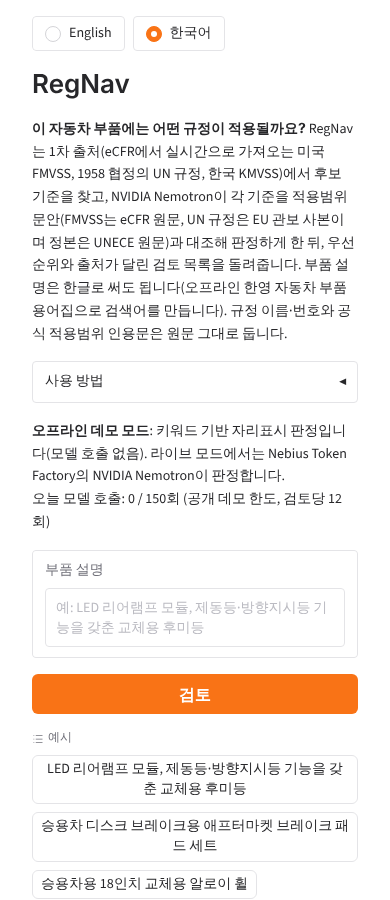
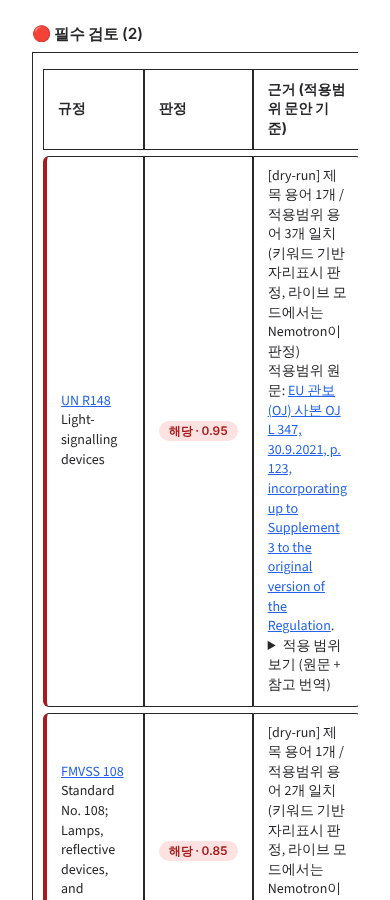
Refresh README demo screenshots to show the current card-style design
The two screenshots added 2026-10-07 predate the three CSS-only design
slices since (10-11 colour badges, 10-13 left accent border, 10-14 row
spacing/rounded corners), so judges reading the README saw a plain,
pre-polish table instead of the actual demo. Re-took both offline with
Playwright against a local space_app.py: the desktop shot now shows the
colour-coded badge/card rows, and the mobile shot was changed from an
empty input form to an actual reviewed Must-review table in Korean at
390px, which also re-confirms the 10-06 phone-width table fix still
holds. Docs/images only; test_dryrun.py and accuracy_table.py output
confirmed byte-identical, make_space.py build+boot unaffected.

Claude-Session: https://claude.ai/code/session_01AfyaZpozAhZgeqqLYdyBFj

Changed region(s): [[0.0615, 0.0, 0.9231, 1.0], [0.3385, 0.5911, 0.4, 0.6222]]

diff --git a/docs/ROADMAP.md b/docs/ROADMAP.md
@@ -55,7 +55,7 @@ and the backlog when work lands. Dates are KST.
 | 10-10 | Claude | FMVSS / UN R / KMVSS comparison table | done 09-26 |
 | 10-13 | Claude | README and `docs/submission/DEVPOST*.md` final text with measured numbers | partial: done 10-10 (DEVPOST.md/DEVPOST_STORY.md accuracy numbers + known demo/repo URLs filled, README already had this from backlog item 5); only `[[YouTube URL]]` left, blocked on the owner's 10-20/10-21 recording |
 | 10-15 | Claude | Demo rehearsal: all 5 examples, no UI errors, fix bugs | done 10-12 (headless-browser pass over all 5 examples x EN/KO x desktop/mobile = 20 runs, no console or page errors, screenshots reviewed by eye; no bugs found, no code change needed) |
-| 10-17 | Claude | `docs/submission/FEEDBACK.md` (feedback prize) and Devpost answer text (Nemotron rating 9) | open |
+| 10-17 | Claude | `docs/submission/FEEDBACK.md` (feedback prize) and Devpost answer text (Nemotron rating 9) | partial: FEEDBACK.md and the DEVPOST.md placeholder done 10-08/10-09 (backlog item 6); only the owner's own "Nemotron rating" number is left, open |
 | 10-18 | owner | Read the video script, mark lines to say in own words | open |
 | 10-20 | owner | Record the 3-minute video | open |
 | 10-21 | owner | Upload to YouTube, send the link | open |
@@ -86,6 +86,7 @@ and the backlog when work lands. Dates are KST.
    **Fifth slice done 10-14** (cloud routine): the left accent bar from the 10-13 slice still sat inside an ordinary collapsed table (every row touching its neighbour), so rows read as a coloured table, not yet as separated cards. `TABLE_CSS` now sets `.prose table { border-collapse: separate; border-spacing: 0 6px; }` and adds `border-radius` to each verdict row's first/last cell (rounding the accent-bar corner and the opposite end), which needs `border-collapse: separate` to take effect at all — with the default `collapse`, neighbouring rows' borders merge and corners cannot round. Pure CSS/launch-arg again, same pattern as the two slices before it: `render()` untouched, `scripts/fixtures/english_outputs_baseline.json` needed no regeneration, `check_english_unchanged` still passes. Verified with a headless Chromium at 1280px light, 1280px dark (`?__theme=dark`) and 390px: `getComputedStyle` on a Must-review row's first cell confirmed `border-collapse: separate`, `border-spacing: 0px 6px`, `border-radius: 6px 0px 0px 6px` actually took effect (not just present in the CSS source), screenshots at all three show visibly separated, rounded rows with no console/page errors, and `document.documentElement.scrollWidth === clientWidth` (390) still holds — the comparison and clause-comparison tables (which don't carry the `.rn-*` badge, so get no accent bar) also pick up the same row-spacing, which reads fine, not cramped. Offline: new assertions in `check_mobile_table_css` for `border-collapse: separate`, `border-spacing:`, and `border-radius:` on both `td:first-child` and `td:last-child` of each `.rn-*` row. `scripts/accuracy_table.py` output byte-identical (diffed, not just compared by number). Remaining from this backlog item: a true independent block card (not a `<table>` row at all, e.g. a bordered `<div>` per verdict) is still the larger, riskier rewrite that needs the shape-asserting tests redone — left for a future run; each CSS-only slice so far has been safe to do without that rewrite, so there may be room for one or two more before that becomes necessary.
 5. **README** for judges: problem, 30-second demo GIF or screenshots, architecture, how Nemotron and Token Factory are used, measured accuracy, limitations.
    **First slice done 10-07** (cloud routine): the README had architecture and the Nemotron/Token Factory usage already, but no screenshot and no accuracy or limitations numbers — the three pieces most useful to a judge skimming the repo. Added two screenshots (`docs/screenshots/demo_result.png` desktop English verdict table, `docs/screenshots/demo_mobile_ko.png` phone-width Korean UI), taken offline with Playwright against `space_app.py` booted locally (`REGNAV_ECFR_OFFLINE=1`, no Nebius/Tavily keys, Chromium already preinstalled in this sandbox at `/opt/pw-browsers` so no download or network call); a "Measured accuracy" section quoting `scripts/accuracy_table.py`'s current numbers (candidate recall 25/25, must-review recall 16/25 EN / 15/25 KO) with the caveat that this is the offline dry-run floor, not a measured live-Nemotron run; and a "Limitations" section (dry-run vs. live-Nemotron accuracy, OJ-vs-UNECE text lag, unofficial Korean translations, unverified/incomplete KMVSS articles, HF Space sleep, catalogue coverage is not a completeness guarantee). Pure docs + two new PNGs, no code change, so no new offline test was needed; `scripts/test_dryrun.py` and `scripts/accuracy_table.py` output are unchanged (confirmed byte-identical to the baseline this run measured first). Remaining from this backlog item: a 30-second GIF (the two static screenshots cover "what it looks like"; a GIF needs either a short local recording session or is better left to the owner's 10-20 video recording step) and folding the measured-accuracy numbers into `docs/submission/DEVPOST.md`'s `[[Accuracy on the sample set]]` placeholder, which is explicitly the 10-13 schedule item, not today's.
+   **Screenshots refreshed 10-15** (cloud routine): the two screenshots from the 10-07 slice were taken before the three design slices of backlog item 4 (10-11 colour badges, 10-13 left accent border, 10-14 row spacing/rounded corners) — so the README was showing judges a plain, pre-polish table (confirmed by diffing pixels of the committed PNG against a fresh render: no badge, no accent border, no row spacing). Regenerated both with the same offline Playwright setup against the current code: `demo_result.png` (desktop, English, LED rear lamp example) now shows the colour-coded badges and card-style rows; `demo_mobile_ko.png` was changed from "the empty input form in Korean" to "a reviewed part's 필수 검토 (Must review) table in Korean at 390px", which is strictly more informative (it doubles as visual proof the phone-width table fix from 10-06 still holds after three more CSS slices) and was the actual gap, not merely an update — the old mobile screenshot never showed a verdict table at all. README caption line updated to match. Pure PNG + one caption-line change, no code touched: `scripts/test_dryrun.py` all-pass and `scripts/accuracy_table.py` output confirmed byte-identical before/after (diffed, not just compared by number), `make_space.py --out` build+boot unchanged (`docs/screenshots/` is not part of the Space build, so this needs no HF re-upload beyond what is already pending). Remaining from this backlog item: the 30-second GIF, still better left for the owner's 10-20 recording pass.
 6. **FEEDBACK.md** from real friction met while building: exact Nemotron model id hard to find; reasoning tokens count against `max_tokens` (a 300 cap returned empty JSON for 5 of 11 calls); the hackathon promo code fails in the Top up dialog and needs a separate form; no spending cap in Token Factory billing; HF Docker Spaces are paid and ZeroGPU requires a registered `@spaces.GPU` function.
    **First slice done 10-08** (cloud routine, ahead of the 10-17 schedule row): `docs/submission/FEEDBACK.md` written, 9 numbered points plus a short form for the Devpost field, each citing the file/line where the workaround already lives in the repo rather than restating the backlog bullet from memory — model-id discoverability (`scripts/list_models.py`), reasoning tokens vs. `max_tokens` with the before/after numbers (300 -> 5/11 empty, 1000 -> fixed; `regnav/judge.py:52-55`), no Token Factory spending cap so RegNav built its own (`regnav/budget.py`, incl. the lower public-demo ceiling), the promo-code/Top-up friction, a Nemotron quality note from the first live run (correct citations, overrode a keyword-ranking mistake, confidence not yet measured on hard cases), JSON-mode sometimes not honoured (`judge.py:_ask()`'s fallback), the Tavily unece.org PDF finding-vs-reading gap with the exact live-check evidence already in `regnav/sources/tavily_search.py` (search finds the right PDF, `raw_content` empty, Tavily Extract fails, fixed by reading the EU Official Journal instead), the un-cached-failure point that `_un_lookup()`'s negative cache fixed, and the ZeroGPU/Docker-Spaces-are-paid note (not a sponsor product, but every participant hosting on free HF Spaces hits it). Pure new doc, no code touched, so no new offline test was needed; `scripts/test_dryrun.py` and `scripts/accuracy_table.py` output confirmed unchanged before and after. Not done this slice: folding the short form into `docs/submission/DEVPOST.md`'s own `## Feedback for Nebius / NVIDIA` placeholder and the "Devpost answer text (Nemotron rating 9)" piece of the 10-17 row — both stay for that scheduled date since the rating number is the owner's own judgement, not something to fabricate.
    **Second slice done 10-09** (cloud routine): re-examined that deferral — the short form needs no "Nemotron rating" number, so there was no real reason tied to it to wait for 10-17. Copied the already-written short form verbatim from `docs/submission/FEEDBACK.md` into `docs/submission/DEVPOST.md`'s `## Feedback for Nebius / NVIDIA` placeholder, with one added line pointing to `FEEDBACK.md` for the full write-up. The "Devpost answer text (Nemotron rating 9)" piece of the 10-17 row is untouched (still the owner's subjective number). Pure doc edit, no code touched; `scripts/test_dryrun.py` and `scripts/accuracy_table.py` output confirmed unchanged, `scripts/make_space.py --out` still builds and boots (docs/submission/ is not part of the Space build). Remaining from backlog item 6: nothing - FEEDBACK.md and the DEVPOST.md placeholder are both filled; only the owner's rating number for the 10-17 row is left.

diff --git a/docs/devlog/2026-10-15.md b/docs/devlog/2026-10-15.md
@@ -1,0 +1,74 @@
+# 2026-10-15
+
+## 어제 상태 분석
+
+`docs/ROADMAP.md`, `docs/devlog/2026-10-14.md`(최신 커밋 `d32f40d`), `git log --oneline -15`,
+README.md, `regnav/pipeline.py`, `regnav/judge.py`, `space_app.py`, `scripts/test_dryrun.py`,
+`scripts/accuracy_table.py`를 읽었다. `git fetch origin '+refs/heads/*:refs/remotes/origin/*'`
+결과 `origin/main`뿐이고 합칠 `claude/` 브랜치는 없었다. 가상환경(`gradio==6.28.0`,
+`playwright` 설치, Chromium은 사전 설치됨)에서 기준선 재측정: `scripts/test_dryrun.py` 전체
+통과, `scripts/accuracy_table.py` candidate recall 25/25(100%), must-review recall
+16/25(64%, 영어) / 15/25(60%, 한글) — 전날과 동일, 변경 없음.
+
+## 오늘 한 개선과 이유
+
+일정표의 Claude 소관 항목 중 오늘(10-15) 기준 기한 초과이거나 3일 이내인 것은 10-17
+FEEDBACK.md/Devpost 답변 행뿐이었는데, 백로그 6번을 보니 FEEDBACK.md와 DEVPOST.md 자리표시는
+이미 10-08/10-09에 끝났고 남은 건 "Nemotron rating" 숫자(오너 전용 주관적 판단)뿐이라 오늘
+할 일이 없었다 — 일정표 상태 칸을 "partial"로 고쳐 다음 실행이 다시 확인하지 않도록 했다.
+그래서 백로그 순위대로 점검: 1~3번은 하드룰(held-out에 맞춘 임계값 조정 금지, 실키 필요)에
+막혀 더 할 일이 없었고, 4번(Gradio 디자인)은 10-11/10-13/10-14 세 번의 CSS 전용 슬라이스를
+거쳤으므로 README의 데모 스크린샷(`docs/screenshots/demo_result.png`,
+`demo_mobile_ko.png`, 둘 다 10-07에 찍음)이 그 개선들을 실제로 반영하는지 직접 비교해봤다.
+10-07 스크린샷을 픽셀로 열어보니 배지 색상도, 왼쪽 색 테두리도, 행 간격도 전혀 없는
+밋밋한 표였다 — 즉 심사위원이 README에서 처음 보는 이미지가 지난 세 번의 디자인 개선을
+전혀 보여주지 못하는 "오래된 스크린샷" 문제였다(심사 기준 2 "디자인"에 직접 영향). 5번
+백로그(README)의 실제로 남은 구체적 구멍이라 판단해 이것을 오늘의 개선으로 골랐다.
+
+## 구현
+
+사전 설치된 Chromium(Playwright, 네트워크 호출 없음)으로 `space_app.py`를 로컬 부팅해
+LED 리어램프 예시를 데스크탑(1280px, 영어)과 모바일(390px, 한국어)에서 다시 촬영했다.
+데스크탑은 실제로 검토를 실행해 배지·좌측 테두리·행 간격이 보이는 "Must review" 표를
+담았다. 모바일은 기존 스크린샷이 "빈 입력 폼"만 보여줬던 것을 "필수 검토 표가 실제로
+렌더링된 화면"으로 바꿨다 — 10-06에 고친 '모바일 표 단어 쪼개짐' 버그가 그 이후 세 번의
+CSS 변경을 거치고도 여전히 안 깨졌는지 보여주는 증거도 겸하므로, 단순 갱신이 아니라 실제
+정보량이 늘어난 교체다. README의 모바일 스크린샷 캡션 한 줄도 "빈 폼"이 아니라 "검토 결과"를
+보여준다고 고쳤다. `space_app.py`나 `regnav/`는 한 글자도 건드리지 않은 순수 PNG + 캡션
+교체다.
+
+## 테스트 결과(숫자)
+
+- `scripts/test_dryrun.py`: 전체 통과(코드 변경 없음, 당연한 결과).
+- `scripts/accuracy_table.py`: candidate recall 25/25(100%), must-review recall
+  16/25(64%, 영어) / 15/25(60%, 한글) — 변경 전/후 출력을 `diff`로 바이트까지 비교해 무변경
+  확인.
+- `scripts/make_space.py --out /tmp/space_upload`: "45 files, contract ok, boot ok, 영어
+  43줄/한글 45줄, 둘 다 UN R90 포함" 통과 (`docs/screenshots/`는 Space 빌드에 포함되지 않음).
+
+## 커밋
+
+변경 파일: `docs/screenshots/demo_result.png`, `docs/screenshots/demo_mobile_ko.png`
+(재촬영), `README.md`(모바일 스크린샷 캡션 한 줄), `docs/ROADMAP.md`(백로그 5번에 10-15
+슬라이스 기록, 10-17 일정 상태를 partial로 정정), 본 devlog. 스크린샷 촬영 스크립트는
+스크래치패드에만 두고 저장소에는 커밋하지 않음.
+
+## 다음 단계
+
+1. 백로그 5번(README)은 이제 30초 GIF만 남음 — 오너의 10-20 녹화와 겹칠 수 있어 우선순위 낮음.
+2. 백로그 4번(디자인)은 CSS 전용 슬라이스를 3회 더 진행했으니, 다음엔 "진짜 독립 블록 카드"
+   리라이트(표 구조 검증 테스트 재작성 필요)가 남은 유일한 조각인지 다시 검토할 것.
+3. 7번(KMVSS) 자동차 EMC 조문은 여전히 법제처 API 키 없이는 불가.
+4. 10-08 오너 작업(정확도표 5개 파트 검토)은 여전히 열려 있음.
+
+## 사용자가 할 일
+
+- 10-04부터 열려 있는 Hugging Face Space 업로드(계속 누적 중 — 오늘 작업은 `docs/`만
+  바꿔서 Space 자체에는 영향 없음): `space_upload/` 폴더를 Files > Contribute > Upload
+  files로 올리면 반영됨.
+- 10-08(아직 열려 있음): `scripts/accuracy_table.py`의 5개 파트 예상 규정 검토 (1시간).
+- 10-17(D-2) 작업 시 필요: Devpost 제출 답변에 쓸 "Nemotron rating"(1-10) 숫자를 오너가
+  직접 정해야 함(글은 이미 다 써둠).
+- KMVSS 자동차 EMC 조문을 마치려면 open.law.go.kr에서 OC 키 발급 필요(오너 전용 계정 가입).
+- 10-18(D-5): 비디오 스크립트(`docs/submission/VIDEO_SCRIPT.md`) 읽고 본인 말로 바꿀 줄
+  표시, 10-20 녹화, 10-21 유튜브 업로드/링크 전달 순서로 예정대로 진행 필요.

diff --git a/README.md b/README.md
@@ -14,9 +14,9 @@ Built for the Nebius x NVIDIA Global AI Hackathon (2026).
 ![RegNav verdict table for a sample part, offline demo mode](docs/screenshots/demo_result.png)
 
 *English desktop view, offline demo mode (keyword placeholder verdicts, no model calls).
-The Korean UI at phone width looks like this:*
+A Korean-language review at phone width looks like this:*
 
-<img src="docs/screenshots/demo_mobile_ko.png" alt="RegNav Korean UI at phone width" width="360">
+<img src="docs/screenshots/demo_mobile_ko.png" alt="RegNav Korean UI at phone width, showing a reviewed part's Must-review table" width="360">
 
 ## Why
 
